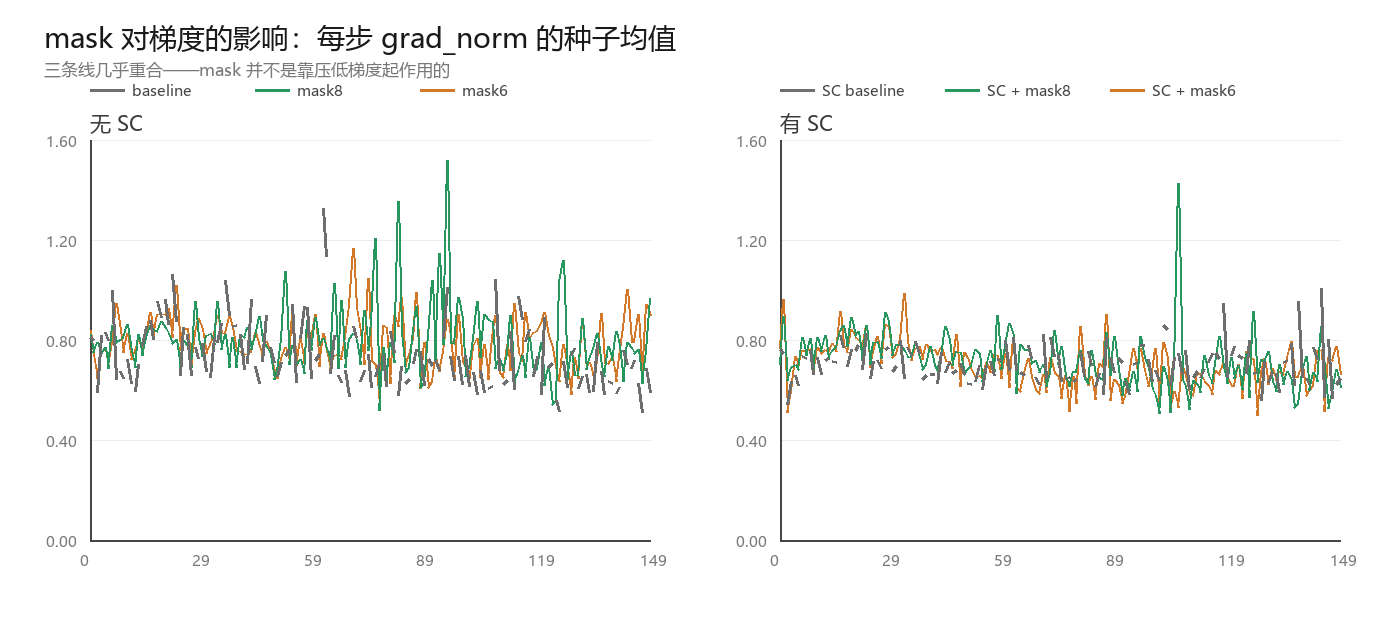
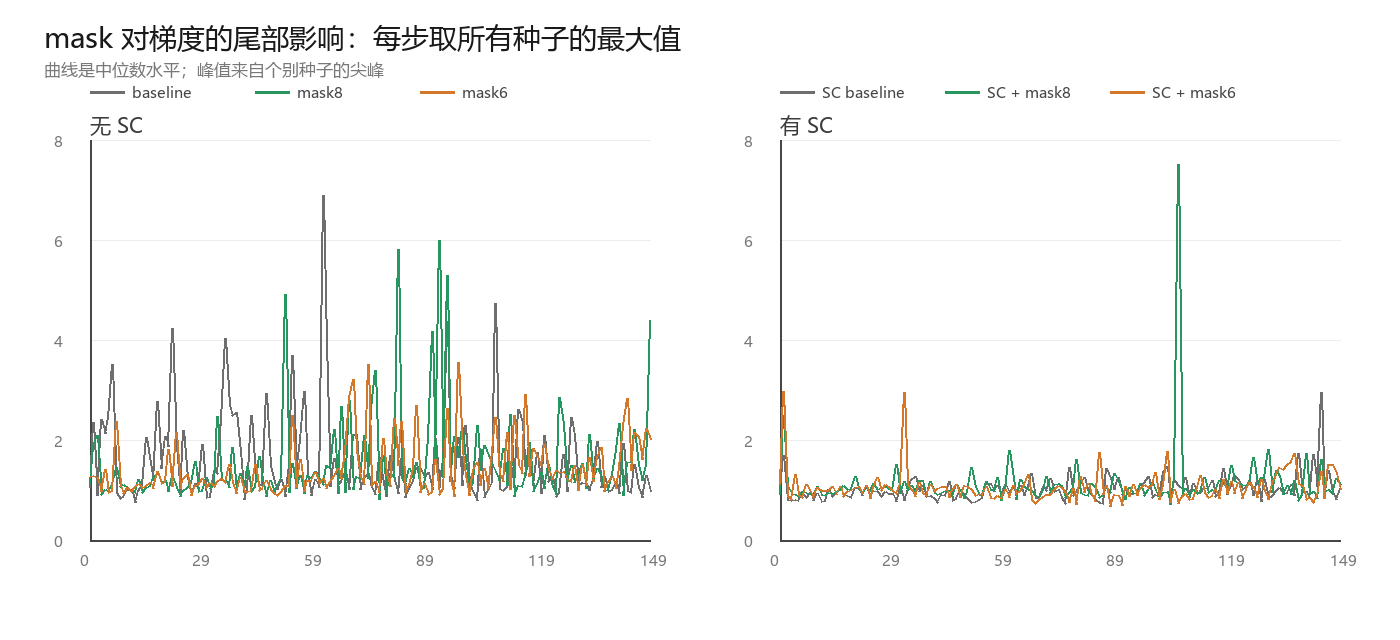
RL 页：mask 梯度图改为每步取种子最大，补尾部数字

diff --git a/docs/projects/rl-efficiency.md b/docs/projects/rl-efficiency.md
@@ -305,19 +305,22 @@ $$d_t = |\ln p_{0,t} - \ln q_t| \quad (\text{nats})$$
 - **没有 SC 时，mask 主要降低方差**：种子间标准差从 0.154 压到 0.074（几乎减半），均值小幅上升。
 - **有 SC 时，三者打平**（0.600–0.623，std 0.03–0.04）——漂移被修掉之后，mask 的边际收益就没了。
 
-**但梯度上看不出差别**：
+**梯度上看：典型水平几乎一样，差别只在尾部**
 
-![每步 grad_norm 的种子均值：无 SC（左）与有 SC（右）下，baseline / mask8 / mask6 三条线几乎重合](../../assets/mask-grad.png)
+![每步取所有种子的最大 grad_norm：无 SC（左）与有 SC（右）](../../assets/mask-grad.png)
 
 | 设置 | baseline | mask8 | mask6 |
 | :-- | --: | --: | --: |
-| 无 SC：梯度均值 / 种子均值峰值 | 0.737 / 1.33 | 0.791 / 1.52 | 0.784 / 1.17 |
-| 有 SC：梯度均值 / 种子均值峰值 | 0.703 / 1.01 | 0.714 / 1.43 | 0.696 / 0.99 |
+| 无 SC：每步最大值的中位数 | 1.20 | 1.24 | 1.22 |
+| 无 SC：p90 | 2.50 | 2.32 | 2.30 |
+| **无 SC：最坏单步尖峰** | **6.88** | 5.99 | **3.54** |
+| 有 SC：最坏单步尖峰 | 2.95 | 7.52 | 2.98 |
 
-- 六条曲线的均值都落在 **0.70–0.79**，单步峰值也拉不开差距；
-- 也就是说，**mask 不是靠压低梯度起作用的**——它改变的是「同一份权重在不同种子上会不会崩」的概率（方差），而不是梯度的大小。
+- **典型水平三组几乎一样**：每步最大值的中位数都在 1.2 左右、p90 都在 2.3 左右——mask 没有让梯度"变平"。
+- **它削的是尾部**：无 SC 时最坏尖峰从 6.88 降到 3.54（约一半），而 mask8 只降到 5.99，甚至还偶发更大尖峰。
+- 换句话说，mask 处理的是「少数种子在某些步炸一下」的概率，而不是平均梯度的大小；而且阈值越松（8 token）越不稳定，6 token 反而更稳。
 
-**小结**：mask 抓住的确实是真实存在的问题（有内容与对错无关、却同时被鼓励和惩罚），但它治的是症状——在 baseline 上能把训练稳住，叠在 SC 之上就变成冗余。这也反过来支持了 4.5 的判断：**稳定性问题的根在分布漂移，不在某些具体 token。**
+**小结**：mask 抓住的确实是真实存在的问题（有内容与对错无关、却同时被鼓励和惩罚），但它治的是症状——在 baseline 上能把训练和尾部风险都稳住，叠在 SC 之上就变成冗余。这也反过来支持了 4.5 的判断：**稳定性问题的根在分布漂移，不在某些具体 token。**
 
 ## 五、被证伪或修正的假设
 
